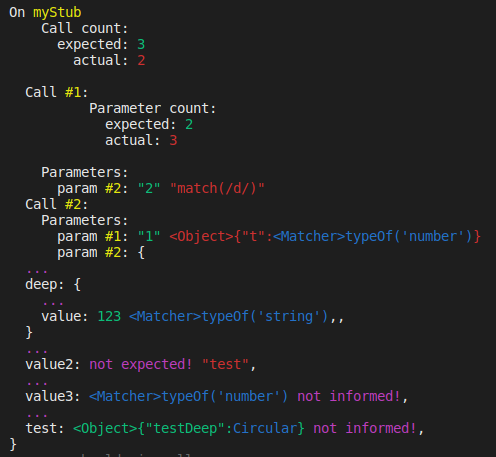
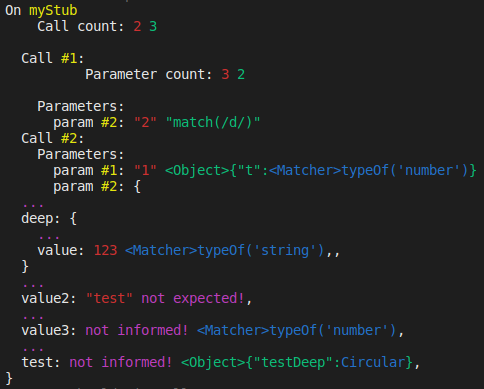
Fixing actual expected order

diff --git a/src/lib/compare-deep.ts b/src/lib/compare-deep.ts
@@ -4,36 +4,40 @@ import { match } from './match';
 import { mustGoDeep } from './must-go-deep';
 import { createComparableEntries } from './create-comparable-entries';
 
-export function compareDeep(e: any, a: any, tab: string) {
+export function compareDeep(actual: any, expected: any, tab: string) {
   let deepResult = '';
-  const entries = createComparableEntries(a, e);
+  const entries = createComparableEntries(actual, expected);
   const prefix = `\n${tab}${lack('...')}\n${tab}`;
   for (const [key, { actualInfo, expectedInfo }] of entries) {
     if (actualInfo) {
       if (expectedInfo) {
-        const eValue = expectedInfo.value;
-        const { value } = actualInfo;
-        if (mustGoDeep(eValue, value)) {
-          const compareResult = compareDeep(eValue, value, `${tab}  `);
+        const actualValue = actualInfo.value;
+        const expectedValue = expectedInfo.value;
+        if (mustGoDeep(actualValue, expectedValue)) {
+          const compareResult = compareDeep(
+            actualValue,
+            expectedValue,
+            `${tab}  `,
+          );
           if (compareResult) {
             deepResult += `${prefix}${key}: {${compareResult},\n${tab}}`;
           }
         } else {
-          const matchResult = match(eValue, value);
+          const matchResult = match(actualValue, expectedValue);
           if (matchResult) {
             deepResult += `${prefix}${key}: ${matchResult},`;
           }
         }
       } else {
         deepResult += `${prefix}${key}: ${printComparison(
-          lack('not expected!'),
           printValue(actualInfo.value),
+          lack('not expected!'),
         )},`;
       }
     } else {
       deepResult += `${prefix}${key}: ${printComparison(
-        printValue(expectedInfo.value),
         lack('not informed!'),
+        printValue(expectedInfo.value),
       )},`;
     }
   }

diff --git a/src/lib/check-call-errors.ts b/src/lib/check-call-errors.ts
@@ -1,22 +1,20 @@
 import { compareParameters } from './compare-parameters';
 import { checkParametersCount } from './check-parameters-count';
 import { ids } from './colors';
+import { SinonStub } from 'sinon';
 
 export function checkCallErrors(
-  parameters: object[][],
-  stub,
+  actualCall: SinonStub,
+  expectedCall: object[][],
   compareFunc: (actual: unknown, expected: unknown) => string,
 ) {
   let errors = '';
-  const max = Math.min(parameters.length, stub.args.length);
+  const max = Math.min(expectedCall.length, actualCall.args.length);
   for (let i = 0; i < max; i++) {
-    const args = stub.args[i];
-    const expectedParameters = parameters[i];
-    let callErrors = checkParametersCount(
-      args.length,
-      expectedParameters.length,
-    );
-    callErrors += compareParameters(args, expectedParameters, compareFunc);
+    const actual = actualCall.args[i];
+    const expected = expectedCall[i];
+    let callErrors = checkParametersCount(actual.length, expected.length);
+    callErrors += compareParameters(actual, expected, compareFunc);
     if (callErrors) {
       errors += `
   Call ${ids(`#${i + 1}`)}:${callErrors}`;

diff --git a/src/lib/get-assert-function.ts b/src/lib/get-assert-function.ts
@@ -7,14 +7,14 @@ export function getAssertFunction(
   utils: Chai.ChaiUtils,
   compareFunc: (actual: unknown, expected: unknown) => string,
 ) {
-  return function fn(this: Chai.AssertionStatic, ...parameters: object[][]) {
-    const stub: sinon.SinonStub = utils.flag(this, 'object');
-    let errors = checkCallCount(stub, parameters);
+  return function fn(this: Chai.AssertionStatic, ...expectedCalls: object[][]) {
+    const actualCalls: sinon.SinonStub = utils.flag(this, 'object');
+    let errors = checkCallCount(actualCalls, expectedCalls);
 
-    errors += checkCallErrors(parameters, stub, compareFunc);
+    errors += checkCallErrors(actualCalls, expectedCalls, compareFunc);
 
     if (errors) {
-      _chai.assert.fail(info(`On ${ids(stub.name)}${errors}`));
+      _chai.assert.fail(info(`On ${ids(actualCalls.name)}${errors}`));
     }
   };
 }

diff --git a/src/lib/compare-parameters.ts b/src/lib/compare-parameters.ts
@@ -1,18 +1,16 @@
 import { ids } from './colors';
 
 export function compareParameters(
-  args: any[],
-  parameters: object[],
+  actual: any[],
+  expected: object[],
   compareFunc: (actual: unknown, expected: unknown) => string,
 ) {
-  const lengthActual = args.length;
-  const lengthExpected = parameters.length;
+  const lengthActual = actual.length;
+  const lengthExpected = expected.length;
   let parValues = '';
   const max = Math.min(lengthActual, lengthExpected);
   for (let j = 0; j < max; j++) {
-    const actual = args[j];
-    const expected = parameters[j];
-    const result = compareFunc(actual, expected);
+    const result = compareFunc(actual[j], expected[j]);
     if (result) {
       parValues += `
       param ${ids(`#${j + 1}`)}: ${result}`;

diff --git a/src/lib/check-call-count.ts b/src/lib/check-call-count.ts
@@ -1,10 +1,9 @@
-import { right, wrong } from './colors';
+import { SinonStub } from 'sinon';
+import { printComparison } from './print';
 
-export function checkCallCount(stub, parameters: object[][]) {
-  return stub.callCount !== parameters.length
+export function checkCallCount(actual: SinonStub, expected: object[][]) {
+  return actual.callCount !== expected.length
     ? `
-    Call count:
-      expected: ${right(parameters.length.toString())}
-        actual: ${wrong(stub.callCount)}\n`
+    Call count: ${printComparison(actual.callCount, expected.length)}\n`
     : '';
 }

diff --git a/src/lib/match.ts b/src/lib/match.ts
@@ -1,15 +1,15 @@
 import { assert } from 'sinon';
 import { getBaseTypeDiff } from './get-base-type-diff';
 
-export function match(e: unknown, a: unknown) {
+export function match(actual: unknown, expected: unknown) {
   let matchResult: boolean;
   try {
-    if (a !== e) {
-      assert.match(a, e);
+    if (actual !== expected) {
+      assert.match(actual, expected);
     }
     matchResult = true;
   } catch (err) {
     matchResult = false;
   }
-  return matchResult ? '' : getBaseTypeDiff(a, e);
+  return matchResult ? '' : getBaseTypeDiff(actual, expected);
 }

diff --git a/src/lib/check-parameters-count.ts b/src/lib/check-parameters-count.ts
@@ -1,5 +1,4 @@
-import { SinonStub } from 'sinon';
-import { wrong, right } from './colors';
+import { printComparison } from './print';
 
 export function checkParametersCount(
   lengthActual: number,
@@ -7,8 +6,6 @@ export function checkParametersCount(
 ) {
   return lengthActual !== lengthExpected
     ? `
-          Parameter count:
-            expected: ${right(lengthExpected)}
-            actual: ${wrong(lengthActual)}\n`
+          Parameter count: ${printComparison(lengthActual, lengthExpected)}\n`
     : '';
 }

diff --git a/src/lib/deep-equals.ts b/src/lib/deep-equals.ts
@@ -3,11 +3,11 @@ import { mustGoDeep } from './must-go-deep';
 import { compareDeep } from './compare-deep';
 
 export function deepEquals(actual: unknown, expected: unknown): string {
-  if (!mustGoDeep(expected, actual)) {
-    return match(expected, actual);
+  if (!mustGoDeep(actual, expected)) {
+    return match(actual, expected);
   }
 
-  const result = compareDeep(expected, actual, '  ');
+  const result = compareDeep(actual, expected, '  ');
 
   return result ? `{${result}\n}` : '';
 }

diff --git a/src/lib/create-comparable-entries.ts b/src/lib/create-comparable-entries.ts
@@ -43,9 +43,9 @@ function getAddExpected(
   };
 }
 
-export function createComparableEntries(a: any, e: any) {
+export function createComparableEntries(actual: any, expected: any) {
   const entries = new Map();
-  Object.entries(a).forEach(getAddActual(entries));
-  Object.entries(e).forEach(getAddExpected(entries));
+  Object.entries(actual).forEach(getAddActual(entries));
+  Object.entries(expected).forEach(getAddExpected(entries));
   return entries;
 }

diff --git a/src/lib/get-base-type-diff.ts b/src/lib/get-base-type-diff.ts
@@ -1,7 +1,8 @@
 import { printValue, printComparison } from './print';
 
-export function getBaseTypeDiff(expected: unknown, actual: unknown) {
-  const expectedInfo = printValue(expected);
+export function getBaseTypeDiff(actual: unknown, expected: unknown) {
   const actualInfo = printValue(actual);
-  return printComparison(expectedInfo, actualInfo);
+  const expectedInfo = printValue(expected);
+
+  return printComparison(actualInfo, expectedInfo);
 }

diff --git a/src/lib/print.ts b/src/lib/print.ts
@@ -18,8 +18,8 @@ export function printValue(value: any) {
   return result;
 }
 
-export function printComparison(expectedInfo: string, actualInfo: string) {
-  let result = `${right(expectedInfo)} ${wrong(actualInfo)}`;
+export function printComparison(actualInfo: unknown, expectedInfo: unknown) {
+  let result = `${wrong(actualInfo)} ${right(expectedInfo)}`;
   if (expectedInfo === actualInfo) {
     result += ' (different instances)';
   }

diff --git a/src/lib/exactly-equals.ts b/src/lib/exactly-equals.ts
@@ -1,5 +1,5 @@
 import { getBaseTypeDiff } from './get-base-type-diff';
 
 export function exactlyEquals(actual: unknown, expected: unknown) {
-  return actual === expected ? '' : getBaseTypeDiff(expected, actual);
+  return actual === expected ? '' : getBaseTypeDiff(actual, expected);
 }
